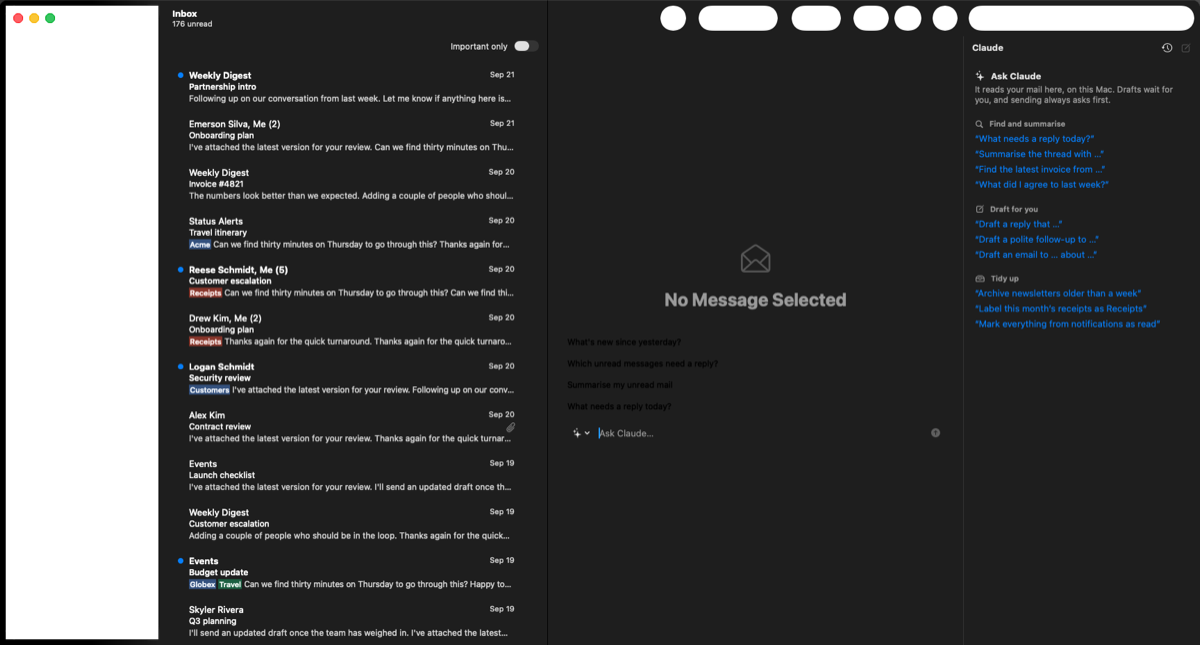
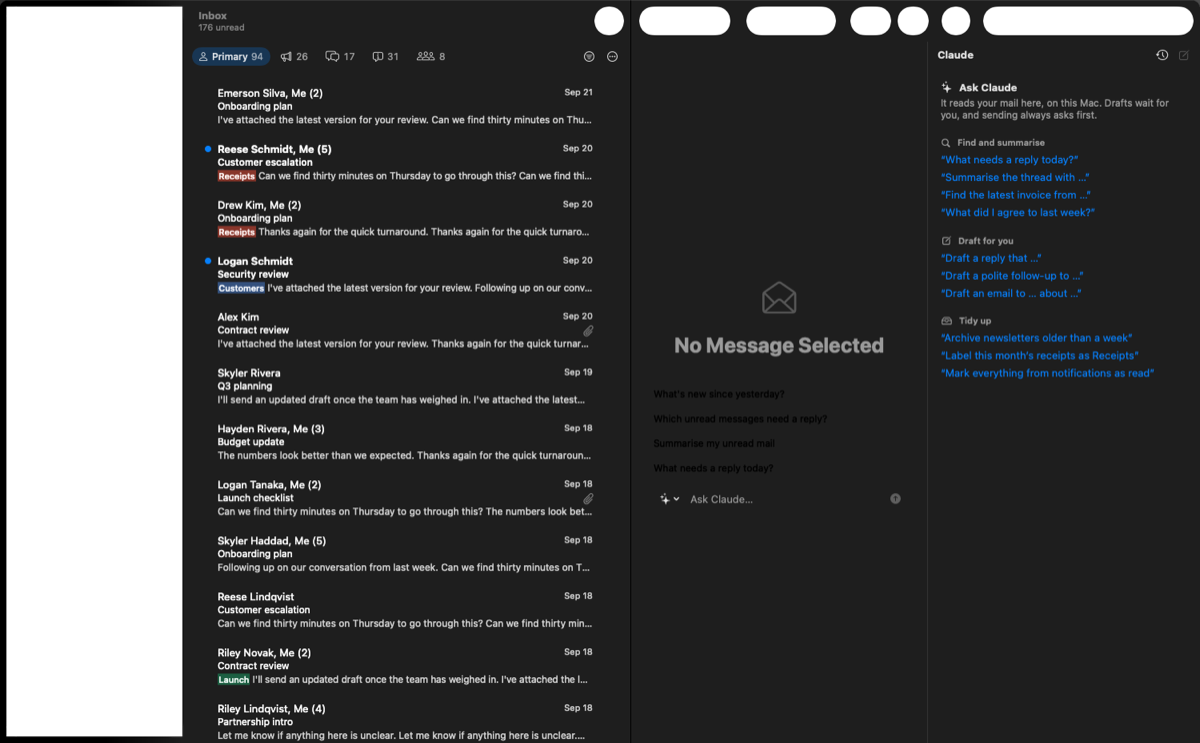
Review fixes for overnight-4
- Clearing a search shows the listing as it is now (filters or tabs may
  have changed during the search), not the one from before it.
- Filters group the typed query: (a OR b) is:unread.
- An agent card's Undo can't be clicked twice (an undoing state).
- KeychainSecretStore.deleteAll empties the login keychain as well.
- Category counts: a newer reload wins over an older one.
- Revealing a thread turns Important only off only if the thread isn't
  Important, and counts categories before picking its tab.
- Mark as Junk is not offered in Sent or Drafts.
- Design snapshots refreshed (tabs, filters, toolbar).

diff --git a/macos/OpenAGC/App/AppModel.swift b/macos/OpenAGC/App/AppModel.swift
@@ -91,6 +91,7 @@ final class AppModel {
     }
 
     private var inboxCategoryLoaded = InboxCategories.primary
+    @ObservationIgnored private var categoryGeneration = 0
 
     static func showCategoriesKey(_ accountID: String) -> String { "inboxShowCategories.\(accountID)" }
     static func inboxCategoryKey(_ accountID: String) -> String { "inboxCategory.\(accountID)" }
@@ -126,13 +127,26 @@ final class AppModel {
         didSet { if listFilters != oldValue { relist() } }
     }
 
+    /// Run the search, or with nothing typed go back to the listing as it
+    /// is now: filters or tabs may have changed during the search.
+    private func searchChanged() {
+        let query = filteredSearch
+        guard query.isEmpty else { threads.search(query); return }
+        threads.search("")
+        if case .open = accountState, let id = listMailboxID, threads.searchQuery != nil || id != threads.mailboxID {
+            Task { await threads.show(mailboxID: id) }
+        }
+    }
+
     /// The search as the store runs it: the typed query plus the filters'
     /// operators. Empty when nothing is typed (the filters then narrow the
     /// mailbox instead).
     var filteredSearch: String {
         let typed = searchText.trimmingCharacters(in: .whitespacesAndNewlines)
         guard !typed.isEmpty else { return "" }
-        return ([typed] + ListFilter.ordered(listFilters).map(\.searchOperator)).joined(separator: " ")
+        let filters = ListFilter.ordered(listFilters).map(\.searchOperator)
+        // Grouped, so `a OR b` is filtered as a whole (AND binds tighter).
+        return filters.isEmpty ? typed : (["(\(typed))"] + filters).joined(separator: " ")
     }
 
     /// Show the list again after the Inbox's narrowing changed; the
@@ -156,8 +170,13 @@ final class AppModel {
     @discardableResult
     func reloadInboxCategories() async -> Bool {
         guard let core, case .open = accountState else { return false }
+        categoryGeneration += 1
+        let generation = categoryGeneration
         let before = listMailboxID
-        inboxCategoryCounts = (try? await core.inboxCategories(importantOnly: inboxImportantOnly)) ?? []
+        let counts = (try? await core.inboxCategories(importantOnly: inboxImportantOnly)) ?? []
+        // A newer reload (the switch toggled again) wins.
+        guard generation == categoryGeneration else { return false }
+        inboxCategoryCounts = counts
         return listMailboxID != before
     }
 
@@ -192,7 +211,7 @@ final class AppModel {
     var selectedThreadID: String?
     /// The toolbar search field's text.
     var searchText = "" {
-        didSet { if searchText != oldValue { threads.search(filteredSearch) } }
+        didSet { if searchText != oldValue { searchChanged() } }
     }
     /// Every selected thread; actions apply to all of them.
     var selectedThreadIDs: Set<String> = []
@@ -690,16 +709,20 @@ final class AppModel {
         searchText = ""
         selectedThreadIDs = []
         selectedThreadID = threadID
-        guard !inboxCategoryTabs.isEmpty, let core else { return }
+        guard let core else { return }
         Task {
             guard let labels = try? await core.thread(threadID)?.thread.labelIds else { return }
+            // Hidden by Important only: show the whole Inbox.
+            if inboxImportantOnly, !labels.contains("IMPORTANT") { inboxImportantOnly = false }
+            // New mail may be the first in its tab: count before choosing.
+            await reloadInboxCategories()
             let tab = InboxCategories.category(of: labels, in: inboxCategoryCounts.map(\.id))
-            guard tab != activeInboxCategory else { return }
-            inboxCategory = tab
-            // Choosing a tab clears the selection; this one is the point.
+            if !inboxCategoryTabs.isEmpty, tab != activeInboxCategory { inboxCategory = tab }
+            // Changing the narrowing clears the selection; this one is the point.
             selectedThreadID = threadID
         }
     }
+
 
     // MARK: Compose
 
@@ -755,8 +778,12 @@ final class AppModel {
     /// The Spam mailbox is on screen: the junk action is Not Junk there.
     var isSpamMailbox: Bool { selectedMailboxID == "SPAM" && threads.searchQuery == nil }
 
+    /// Junk is for received mail: not offered in Sent or Drafts.
+    var canJunk: Bool { !["SENT", "DRAFT"].contains(selectedMailboxID ?? "") }
+
     /// Mark as Junk, or Not Junk in Spam (spec §14.3 amendment, junk).
     func toggleJunkSelection() {
+        guard canJunk else { return }
         if isSpamMailbox {
             removeFromList(.notJunk) { core, ids in try await core.notJunk(ids) }
         } else {

diff --git a/macos/OpenAGC/Features/Agent/AgentStore.swift b/macos/OpenAGC/Features/Agent/AgentStore.swift
@@ -27,6 +27,8 @@ final class AgentStore {
             /// An approved send held for Undo Send (spec §14.6a): it can be
             /// taken back until then.
             case sending(until: Date)
+            /// Taking the send back.
+            case undoing
             /// The user took the send back; the draft is open to review.
             case takenBack
         }
@@ -177,7 +179,7 @@ final class AgentStore {
             guard let until, proposal(actionID)?.state == .approved else { return }
             setProposal(actionID, .sending(until: until))
             try? await Task.sleep(for: .seconds(max(0, until.timeIntervalSinceNow)))
-            if case .sending = proposal(actionID)?.state { setProposal(actionID, .approved) }
+            if case .sending = proposal(actionID)?.state { setProposal(actionID, .approved) } // not while undoing
         }
     }
 
@@ -185,9 +187,10 @@ final class AgentStore {
     /// editing and opens in the review composer.
     func undoSend(_ actionID: Int64) {
         guard let (_, draftID, state) = proposal(actionID), case .sending = state, let draftID, let takeBack else { return }
+        setProposal(actionID, .undoing) // a second click does nothing
         Task {
             let tookBack = await takeBack(draftID)
-            setProposal(actionID, tookBack ? .takenBack : .approved)
+            if proposal(actionID)?.state == .undoing { setProposal(actionID, tookBack ? .takenBack : .approved) }
         }
     }
 

diff --git a/macos/OpenAGC/Features/ThreadList/ThreadListView.swift b/macos/OpenAGC/Features/ThreadList/ThreadListView.swift
@@ -120,10 +120,10 @@ struct ThreadListView: NSViewRepresentable {
             return [
                 act("Archive") { $0.archiveSelection() },
                 act("Move to Trash") { $0.trashSelection() },
-                act(model.isSpamMailbox ? "Not Junk" : "Mark as Junk") { $0.toggleJunkSelection() },
                 act(row.unreadCount > 0 ? "Mark as Read" : "Mark as Unread") { $0.toggleReadSelection() },
                 act(row.isStarred ? "Unstar" : "Star") { $0.toggleStarSelection() },
-            ] + (model.isArchive ? [] : [act("Reply") { $0.reply(all: false) }])
+            ] + (model.canJunk ? [act(model.isSpamMailbox ? "Not Junk" : "Mark as Junk") { $0.toggleJunkSelection() }] : [])
+              + (model.isArchive ? [] : [act("Reply") { $0.reply(all: false) }])
         }
 
         func tableViewSelectionDidChange(_ notification: Notification) {
@@ -238,7 +238,9 @@ final class ThreadTableView: NSTableView {
         labels.submenu = labelMenu()
         menu.addItem(labels)
         menu.addItem(.separator())
-        menu.addItem(ActionItem(model.isSpamMailbox ? "Not Junk" : "Mark as Junk", key: "!") { model.toggleJunkSelection() })
+        if model.canJunk {
+            menu.addItem(ActionItem(model.isSpamMailbox ? "Not Junk" : "Mark as Junk", key: "!") { model.toggleJunkSelection() })
+        }
         menu.addItem(ActionItem("Move to Trash", key: "\u{8}") { model.trashSelection() })
         return menu
     }

diff --git a/macos/OpenAGC/Core/KeychainSecretStore.swift b/macos/OpenAGC/Core/KeychainSecretStore.swift
@@ -80,15 +80,17 @@ final class KeychainSecretStore: @unchecked Sendable {
     /// runs). Never used on the app's own service.
     func deleteAll() throws(KeychainError) {
         precondition(service != "ai.actual.openagc", "never empty the user's own Keychain items")
-        // The login keychain deletes one matching item per call.
-        for _ in 0..<1_000 {
-            let status = run {
+        // Both keychains: items may sit in the login keychain from runs
+        // that fell back to it, while the data-protection one answers
+        // "not found". The login keychain deletes one item per call.
+        for dataProtection in [true, false] {
+            for _ in 0..<1_000 {
                 var q: [String: Any] = [kSecClass as String: kSecClassGenericPassword, kSecAttrService as String: service]
                 if dataProtection { q[kSecUseDataProtectionKeychain as String] = true }
-                return SecItemDelete(q as CFDictionary)
+                let status = SecItemDelete(q as CFDictionary)
+                if status == errSecItemNotFound || (dataProtection && status == errSecMissingEntitlement) { break }
+                guard status == errSecSuccess else { throw KeychainError(status: status, operation: "delete") }
             }
-            if status == errSecItemNotFound { return }
-            guard status == errSecSuccess else { throw KeychainError(status: status, operation: "delete") }
         }
     }
 

diff --git a/macos/OpenAGCTests/ListFilterTests.swift b/macos/OpenAGCTests/ListFilterTests.swift
@@ -42,10 +42,15 @@ struct ListFilterTests {
         model.listFilters = [.starred]
         try await waitFor("starred listing") { model.threads.mailboxID == "INBOX+@starred" }
         model.searchText = "plan"
-        #expect(model.filteredSearch == "plan is:starred")
-        try await waitFor("search ran") { model.threads.searchQuery == "plan is:starred" }
-        model.listFilters = []
-        try await waitFor("search ran again") { model.threads.searchQuery == "plan" }
+        #expect(model.filteredSearch == "(plan) is:starred", "grouped, so an OR is filtered whole")
+        try await waitFor("search ran") { model.threads.searchQuery == "(plan) is:starred" }
+        model.listFilters = [.unread]
+        try await waitFor("search ran again") { model.threads.searchQuery == "(plan) is:unread" }
+        // Clearing the search shows the listing as it is now.
+        model.searchText = ""
+        try await waitFor("back to the filtered Inbox") {
+            model.threads.searchQuery == nil && model.threads.mailboxID == "INBOX+@unread"
+        }
     }
 
     @Test func revealingAThreadClearsTheFilters() async throws {

diff --git a/macos/OpenAGC/Features/Agent/AgentPanel.swift b/macos/OpenAGC/Features/Agent/AgentPanel.swift
@@ -380,6 +380,11 @@ private struct ProposalCard: View {
                         .help("Take the message back and open it (until \(until.formatted(date: .omitted, time: .standard)))")
                 }
                 .accessibilityElement(children: .contain)
+            case .undoing:
+                HStack {
+                    ProgressView().controlSize(.mini)
+                    Text("Taking it back…").font(.caption).foregroundStyle(.secondary)
+                }
             case .takenBack:
                 Label("Not sent. The draft is open for you.", systemImage: "arrow.uturn.backward.circle")
                     .font(.caption).foregroundStyle(.secondary)

diff --git a/macos/OpenAGC/App/OpenAGCApp.swift b/macos/OpenAGC/App/OpenAGCApp.swift
@@ -173,7 +173,7 @@ struct MailCommands: Commands {
                 .disabled(noTargets)
             Button(model.isSpamMailbox ? "Not Junk" : "Mark as Junk") { model.toggleJunkSelection() }
                 .keyboardShortcut("j", modifiers: [.command, .shift])
-                .disabled(noTargets)
+                .disabled(noTargets || !model.canJunk)
             Divider() // menu
             Button("Mark as Read or Unread") { model.toggleReadSelection() }
                 .keyboardShortcut("u", modifiers: [.command, .shift])

diff --git a/macos/OpenAGCTests/AgentPanelTests.swift b/macos/OpenAGCTests/AgentPanelTests.swift
@@ -173,6 +173,8 @@ struct ApprovalCardTests {
         while state(7) == .approved, ContinuousClock.now < deadline { try await Task.sleep(for: .milliseconds(20)) }
         #expect(state(7) == .sending(until: until))
         agent.undoSend(7)
+        agent.undoSend(7) // a second click does nothing
+        #expect(state(7) == .undoing)
         while state(7) != .takenBack, ContinuousClock.now < deadline { try await Task.sleep(for: .milliseconds(20)) }
         #expect(state(7) == .takenBack)
         #expect(tookBack == [3])

diff --git a/macos/OpenAGC/Features/MessageView/MessageToolbar.swift b/macos/OpenAGC/Features/MessageView/MessageToolbar.swift
@@ -48,7 +48,7 @@ struct MessageToolbar: ToolbarContent {
                 model.toggleJunkSelection()
             }
             .help(model.isSpamMailbox ? "Not Junk (⇧⌘J)" : "Mark as Junk (⇧⌘J)")
-            .disabled(noTargets)
+            .disabled(noTargets || !model.canJunk)
         }
         ToolbarSpacer(.fixed)
         ToolbarItem {

diff --git a/docs/SPECIFICATION.md b/docs/SPECIFICATION.md
@@ -1799,7 +1799,9 @@ button and shows in the subtitle ("Filtered: Unread, Starred"). Filters
 apply locally: a listing gets them as narrowings on the thread's own
 columns (`INBOX+@unread+@attachments`, combining with Important-only and
 category tabs), a search as operators (`is:unread`, `is:starred`,
-`has:attachment`) after the typed query. They are per window, kept when
+`has:attachment`) after the typed query, which is grouped in
+parentheses so an `OR` is filtered as a whole. Clearing the search shows
+the listing as it is then. They are per window, kept when
 changing mailboxes, cleared when a notification reveals a thread, and not
 remembered between launches.
 
@@ -1807,7 +1809,8 @@ remembered between launches.
 (toolbar, Message menu ⇧⌘J, context menu, `!` in the thread list as in
 Gmail, VoiceOver's Actions) moves threads to Spam (adds `SPAM`, removes
 `INBOX`); in Spam the same command reads *Not Junk* and moves them to the
-Inbox. Both are undoable (§14.6a: "Moved 2 conversations to Spam") and go
+Inbox; it is not offered in Sent or Drafts. Both are undoable (§14.6a:
+"Moved 2 conversations to Spam") and go
 through the outbox as label changes. Agents and `modify_labels` still may
 not set `SPAM`: only these two user actions (`mark_junk`, `not_junk`) do.
 
